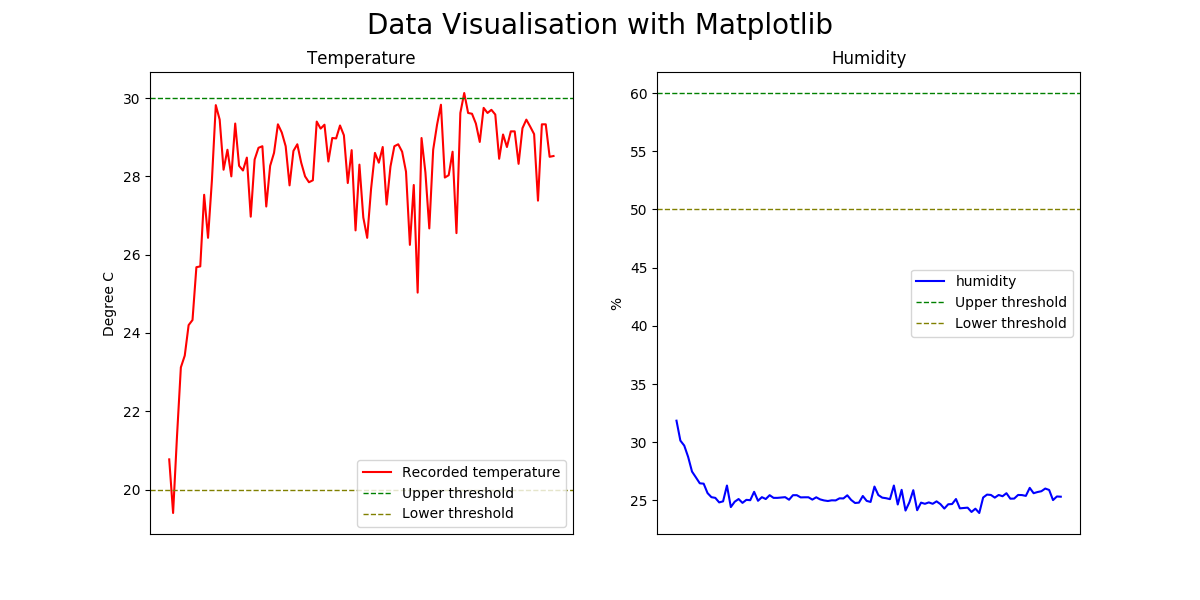
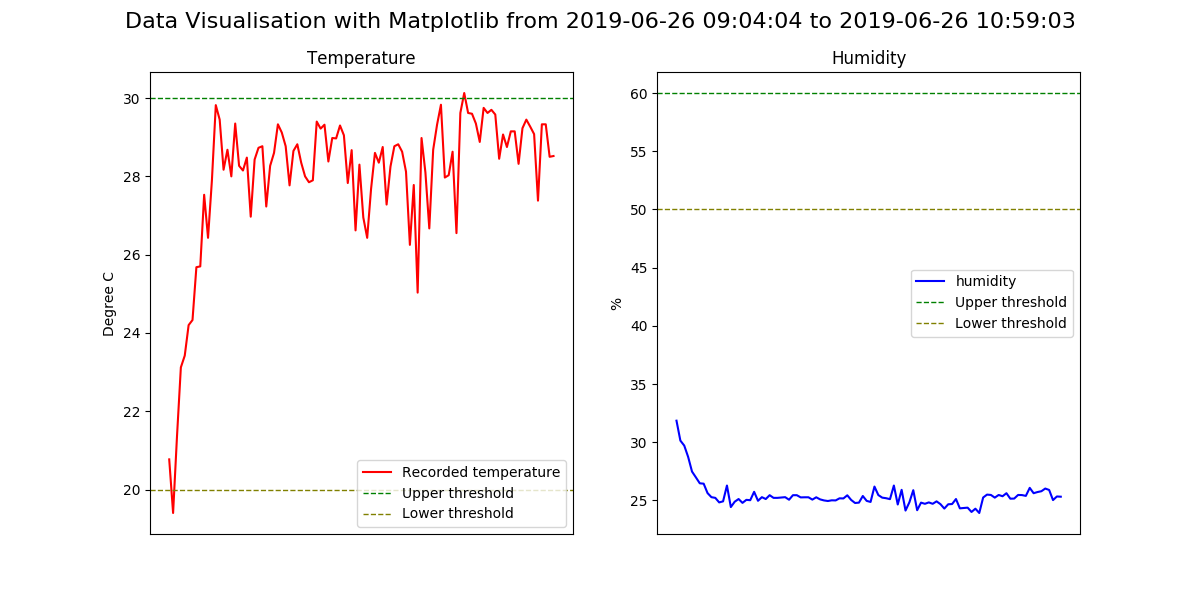
Use Seaborn color palettes

Changed region(s): [[0.0925, 0.0, 0.8942, 0.06]]

diff --git a/analytics.py b/analytics.py
@@ -7,6 +7,8 @@ import json
 class DataVisualiser:
     def __init__(self):
         self._df = pd.read_csv('daily_report.csv')
+        self._start_date = self._df.loc[0, 'date']
+        self._end_date = self._df.loc[self._df.shape[0] - 1, 'date']
 
         with open('config.json') as config_file:
             self._config = json.load(config_file)
@@ -21,6 +23,7 @@ class DataVisualiser:
         # Using Seaborn style if specified
         if not using_plt:
             sns.set()
+            sns.set_palette('husl')
 
         # Create figure with 2 subplots
         fig, (ax_temp, ax_hum) = plt.subplots(1, 2, figsize=(12, 6))
@@ -59,40 +62,11 @@ class DataVisualiser:
         self.draw_constant_line(ax=ax_hum, mode='humidity')
 
         # Set figure's title
-        fig.suptitle('Data Visualisation with Matplotlib', fontsize=20)
+        fig_title = 'Data Visualisation with Matplotlib from {} to {}'.format(self._start_date, self._end_date)
+        fig.suptitle(fig_title, fontsize=16)
 
         # Save figure as PNG image file
         plt.savefig('visualise_matplotlib.png')
-
-    # ==================================================================================
-
-    def plot_seaborn(self, fig, ax_temp, ax_hum):
-        """
-            Visualisation with Seaborn
-        -------------------------------------------------
-        @fig: Figure object to contain plots
-        @ax_temp: Subplot object for temperature plot
-        @ax_hum: Subplot object for humidity plot
-        """
-        # Red line chart for temperature
-        sns.lineplot(x='index', y='temperature', color='red', label='Temperature',
-                     data=self._df.reset_index(), ax=ax_temp)
-        ax_temp.set_ylabel('Degree C')
-        self.draw_constant_line(ax=ax_temp, mode='temperature')
-
-        # Blue line chart for humidity
-        sns.lineplot(x='index', y='humidity', color='blue', label='Humidity',
-                     data=self._df.reset_index(), ax=ax_hum)
-        ax_hum.set_ylabel('%')
-        self.draw_constant_line(ax=ax_hum, mode='humidity')
-
-        # Set figure's title
-        fig.suptitle('Data Visualisation with Seaborn', fontsize=20)
-
-        # Save figure as PNG image file
-        plt.savefig('visualise_seaborn.png')
-
-    # ==================================================================================
 
     def draw_constant_line(self, ax, mode):
         """
@@ -107,6 +81,40 @@ class DataVisualiser:
                    linestyle='dashed', label='Lower threshold')
         ax.legend()
         ax.get_xaxis().set_visible(False)
+
+    # ==================================================================================
+
+    def plot_seaborn(self, fig, ax_temp, ax_hum):
+        """
+            Visualisation with Seaborn
+        -------------------------------------------------
+        @fig: Figure object to contain plots
+        @ax_temp: Subplot object for temperature plot
+        @ax_hum: Subplot object for humidity plot
+        """
+        self._df['max_temp'] = self._config['max_temperature']
+        self._df['min_temp'] = self._config['min_temperature']
+        self._df['max_hum'] = self._config['max_humidity']
+        self._df['min_hum'] = self._config['min_humidity']
+
+        # Red line chart for temperature
+        with sns.color_palette('husl'):
+            sns.lineplot(data=self._df[['temperature', 'min_temp', 'max_temp']], ax=ax_temp)
+            ax_temp.legend(['Temperature', 'Upper threshold', 'Lower threshold'])
+            ax_temp.set_ylabel('Degree C')
+
+        # Blue line chart for humidity
+        with sns.color_palette('GnBu_d'):
+            sns.lineplot(data=self._df[['humidity', 'min_hum', 'max_hum']], ax=ax_hum)
+            ax_hum.legend(['Temperature', 'Upper threshold', 'Lower threshold'])
+            ax_hum.set_ylabel('%')
+
+        # Set figure's title
+        fig_title = 'Data Visualisation with Seaborn from {} to {}'.format(self._start_date, self._end_date)
+        fig.suptitle(fig_title, fontsize=16)
+
+        # Save figure as PNG image file
+        plt.savefig('visualise_seaborn.png')
 
 # =======================================================================================
 
